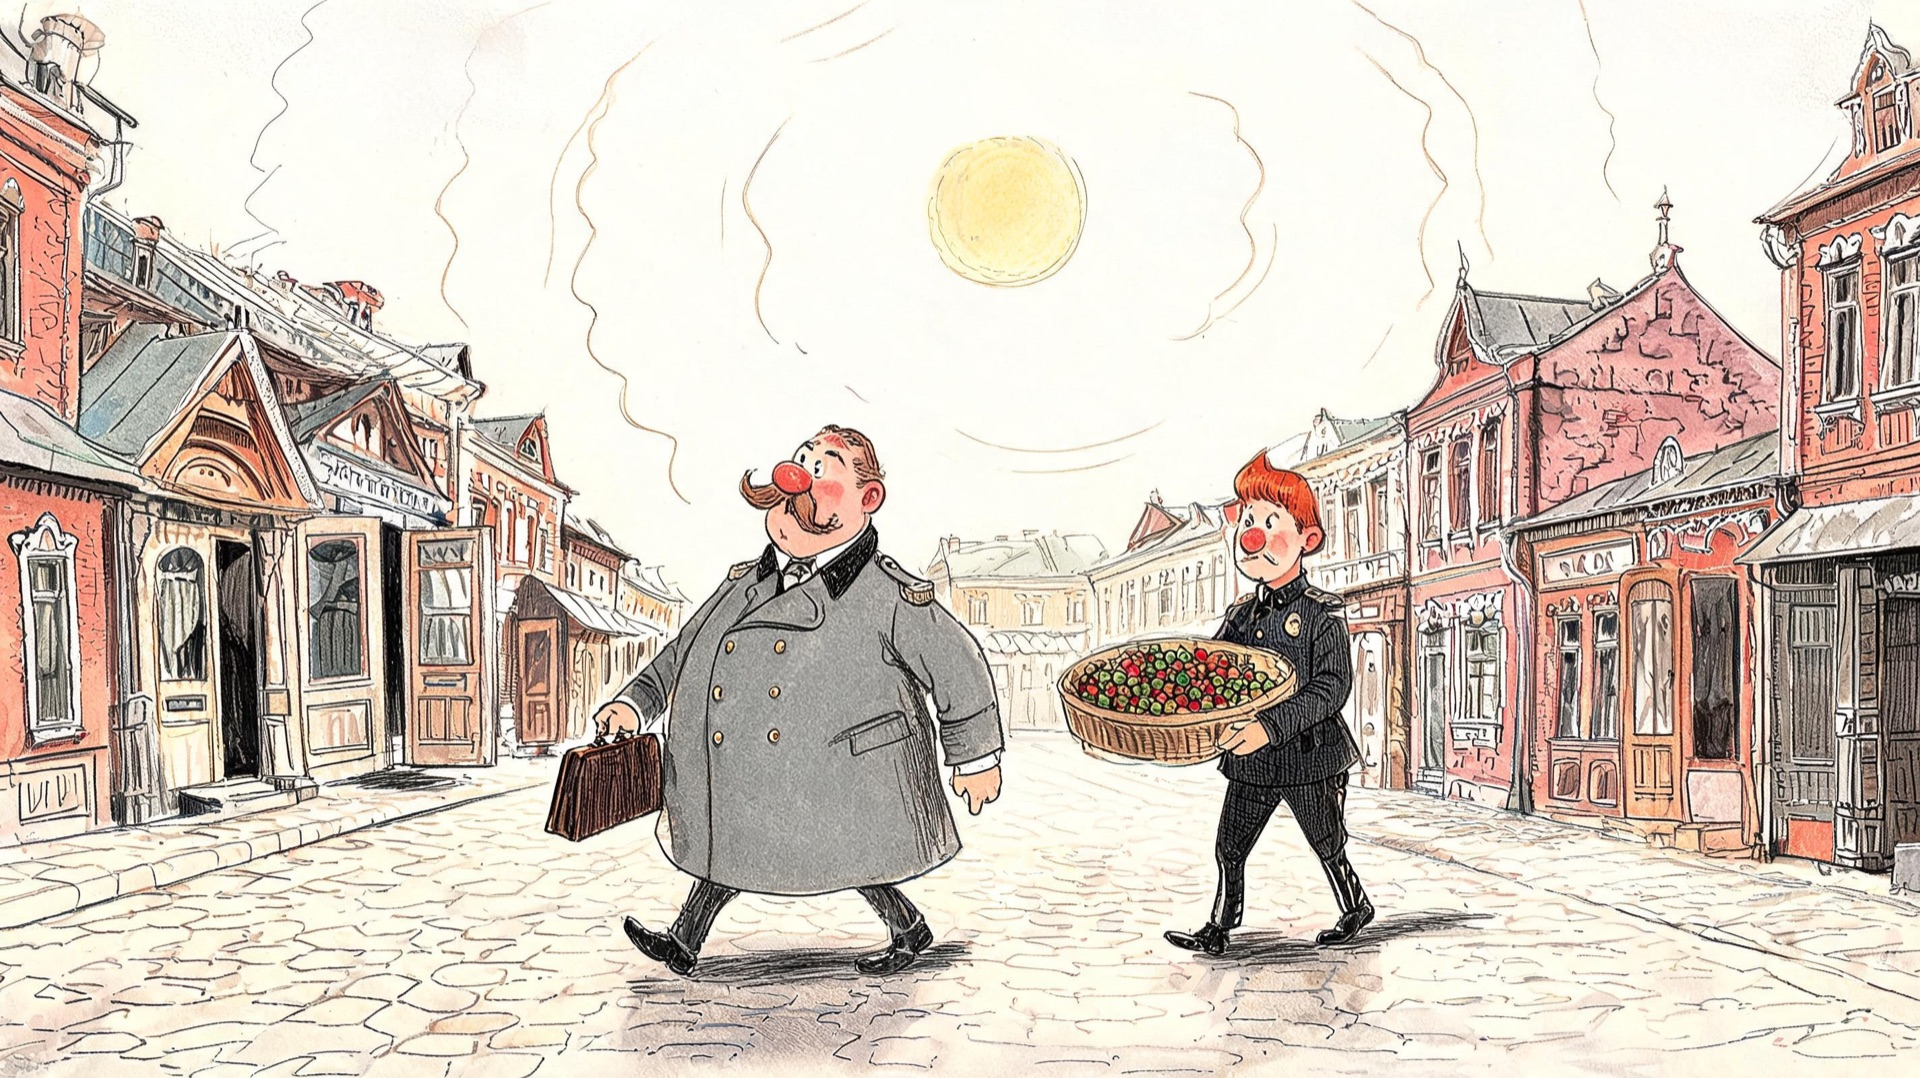
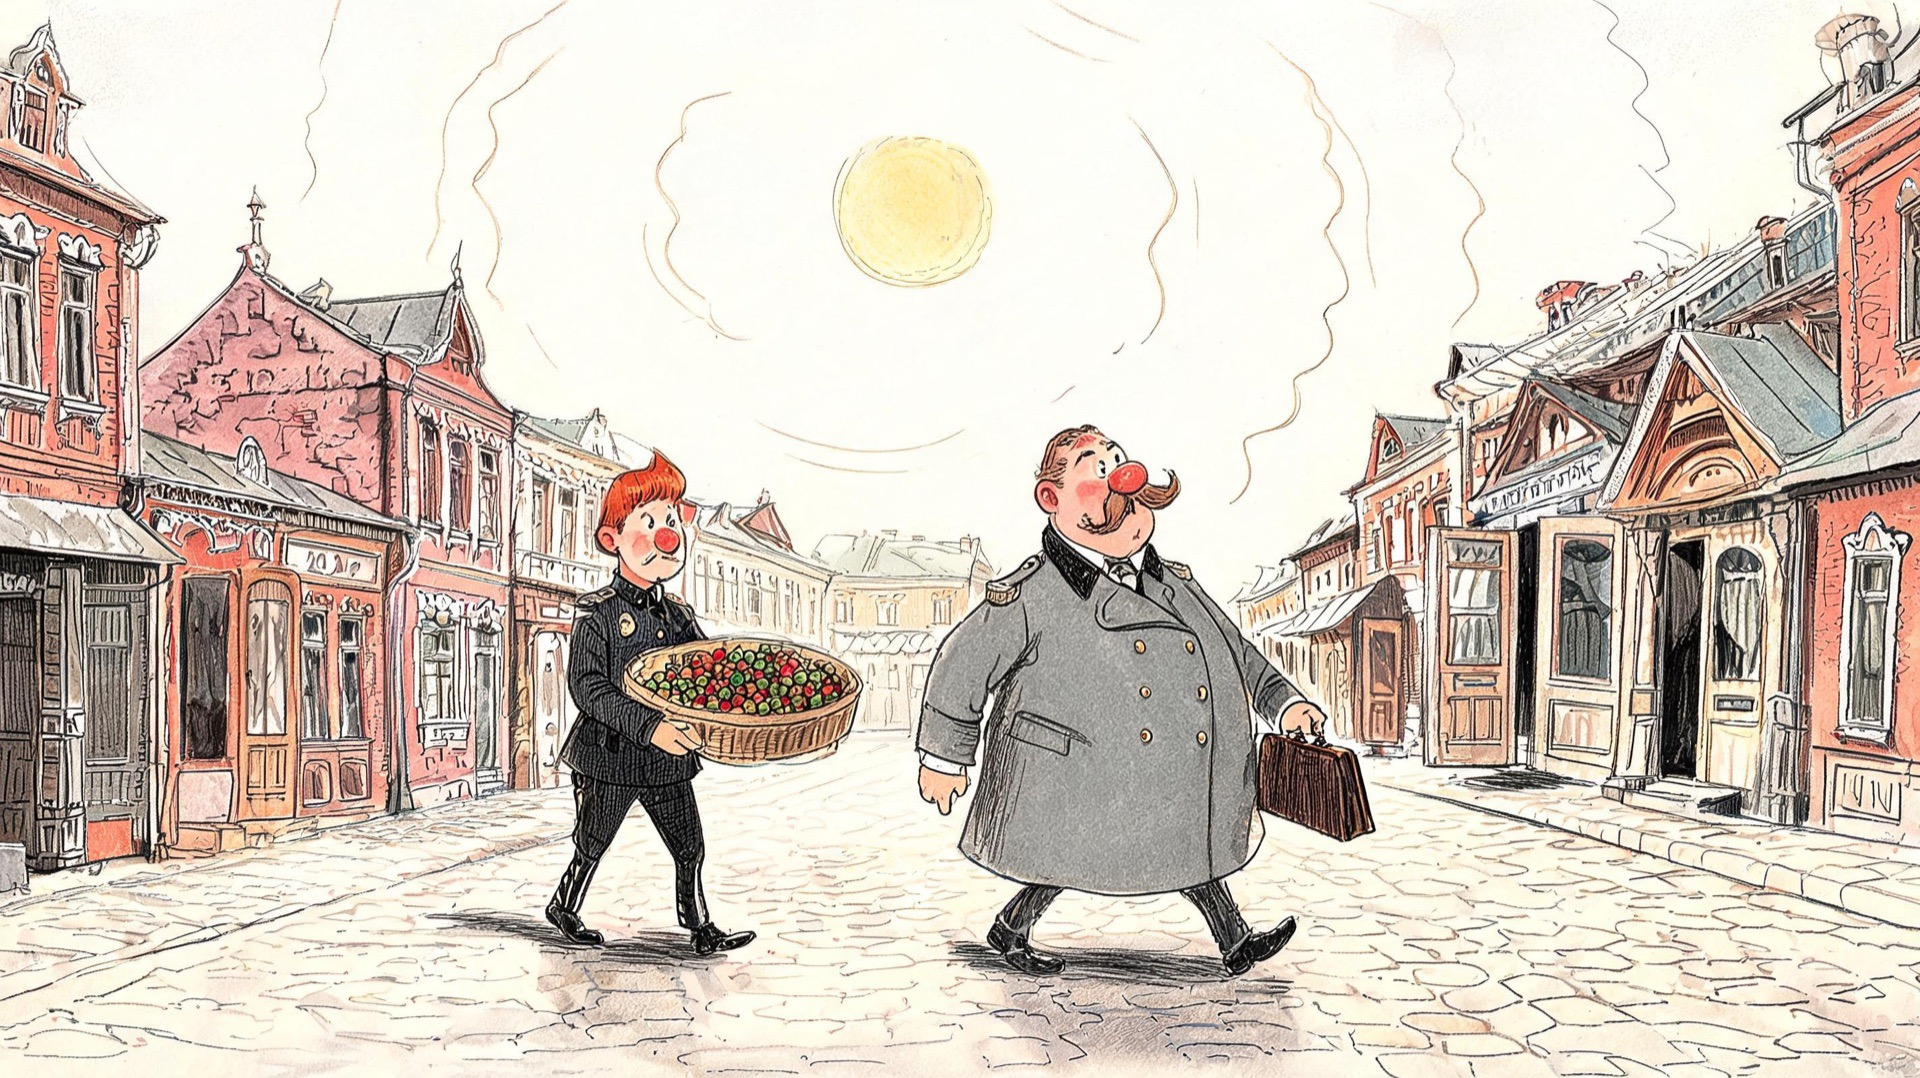
fix: 九下 5 课封面主体移到右侧，避开标题遮罩

diff --git a/x9b-cisishou/index.html b/x9b-cisishou/index.html
@@ -17,7 +17,7 @@
 
 <!-- ================= 封面：四个词牌 ================= -->
 <section class="slide scene s-cover">
-  <div class="scene-bg" data-focus="1.05 50% 50%" data-bg="assets/chulie.jpg"></div>
+  <div class="scene-bg" data-focus="1.05 50% 50%" data-bg="assets/chulie-cover.jpg"></div>
   <div class="scene-shade"></div>
   <div class="cover-box">
     <p class="cover-unit">九年级下册 · 第三单元 · 第 12 课 · 词</p>
